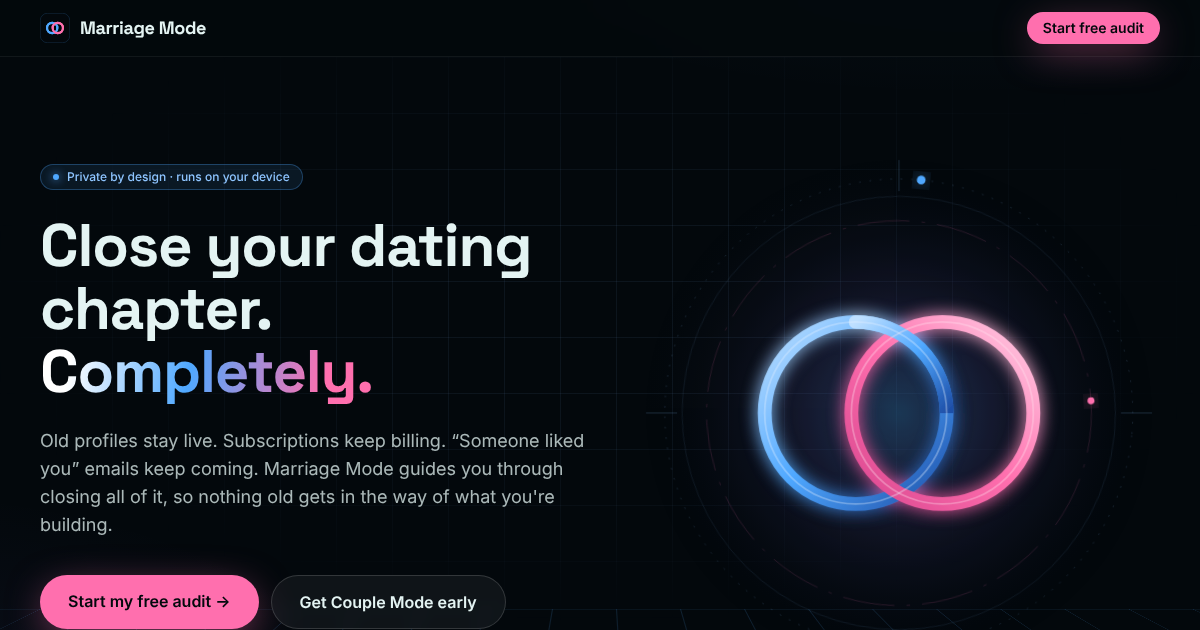
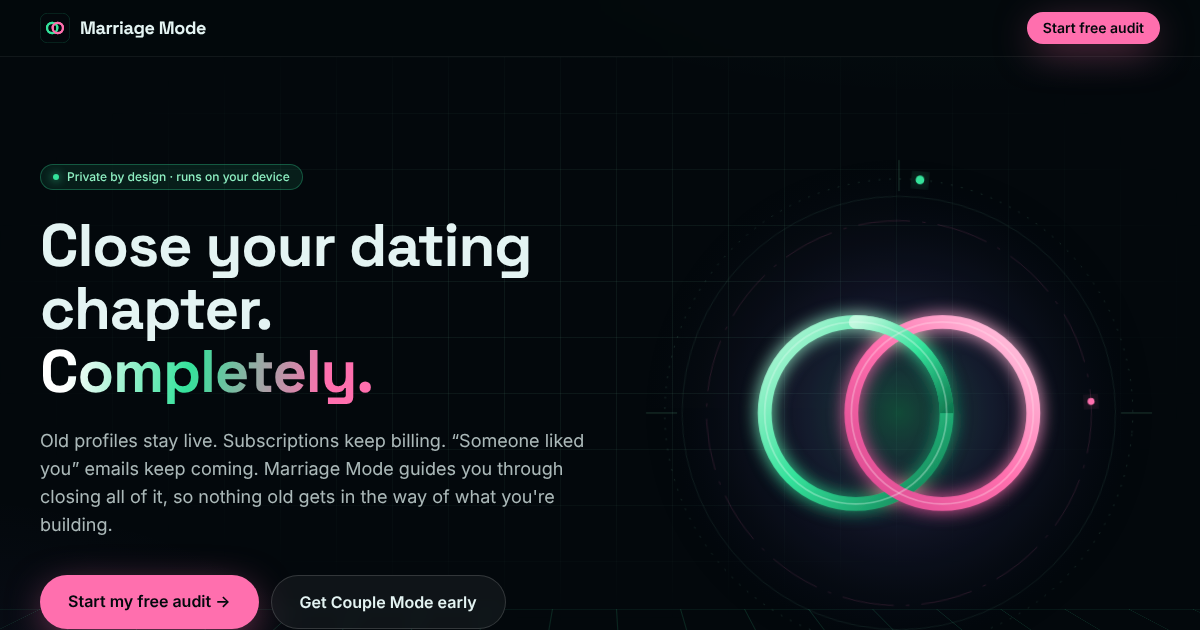
Green and pink couple colors
Claude-Session: https://claude.ai/code/session_01PMWj3aTo82XBh1qqnGkntn

diff --git a/app/src/components/Halo.tsx b/app/src/components/Halo.tsx
@@ -2,15 +2,15 @@
 // Pure SVG: sharp at any size, ~2 KB, no image requests.
 export default function Halo({ className = '' }: { className?: string }) {
   return (
-    <svg viewBox="0 0 600 600" className={className} role="img" aria-label="Two interlocking glowing rings, one blue and one pink">
+    <svg viewBox="0 0 600 600" className={className} role="img" aria-label="Two interlocking glowing rings, one green and one pink">
       <defs>
         <radialGradient id="h-core" cx="50%" cy="50%" r="50%">
-          <stop offset="0" stopColor="#4FA8FF" stopOpacity=".35" />
+          <stop offset="0" stopColor="#34E29B" stopOpacity=".35" />
           <stop offset=".45" stopColor="#8B7CFF" stopOpacity=".12" />
           <stop offset="1" stopColor="#03080C" stopOpacity="0" />
         </radialGradient>
         <linearGradient id="h-a" x1="0" y1="0" x2="1" y2="1">
-          <stop offset="0" stopColor="#BFE0FF" /><stop offset=".5" stopColor="#4FA8FF" /><stop offset="1" stopColor="#1E4FA8" />
+          <stop offset="0" stopColor="#C2F9DF" /><stop offset=".5" stopColor="#34E29B" /><stop offset="1" stopColor="#0F7A50" />
         </linearGradient>
         <linearGradient id="h-b" x1="1" y1="0" x2="0" y2="1">
           <stop offset="0" stopColor="#FFD1E6" /><stop offset=".5" stopColor="#FF6FAE" /><stop offset="1" stopColor="#D9468F" />
@@ -25,16 +25,16 @@ export default function Halo({ className = '' }: { className?: string }) {
       <circle cx="300" cy="300" r="300" fill="url(#h-core)" className="pulse-soft" />
 
       {/* HUD orbits */}
-      <g className="spin-slow" fill="none" stroke="#8EC5FF">
+      <g className="spin-slow" fill="none" stroke="#8EF0C2">
         <circle cx="300" cy="300" r="270" strokeOpacity=".18" strokeDasharray="2 10" />
         <circle cx="300" cy="300" r="250" strokeOpacity=".10" />
-        <circle cx="300" cy="30" r="5" fill="#4FA8FF" stroke="none" filter="url(#h-glow)" />
+        <circle cx="300" cy="30" r="5" fill="#34E29B" stroke="none" filter="url(#h-glow)" />
       </g>
       <g className="spin-rev" fill="none" stroke="#FF6FAE">
         <circle cx="300" cy="300" r="222" strokeOpacity=".16" strokeDasharray="60 14 4 14" />
         <circle cx="522" cy="300" r="4" fill="#FF6FAE" stroke="none" filter="url(#h-glow)" />
       </g>
-      <g stroke="#8EC5FF" strokeOpacity=".25">
+      <g stroke="#8EF0C2" strokeOpacity=".25">
         <line x1="300" y1="8" x2="300" y2="44" /><line x1="300" y1="556" x2="300" y2="592" />
         <line x1="8" y1="300" x2="44" y2="300" /><line x1="556" y1="300" x2="592" y2="300" />
       </g>
@@ -46,7 +46,7 @@ export default function Halo({ className = '' }: { className?: string }) {
         <path d="M 250 195 A 105 105 0 0 1 355 300" stroke="url(#h-a)" clipPath="url(#h-top)" />
       </g>
       <g fill="none" strokeWidth="2" strokeOpacity=".9">
-        <circle cx="250" cy="300" r="105" stroke="#E6F1FF" strokeOpacity=".35" />
+        <circle cx="250" cy="300" r="105" stroke="#E6FFF3" strokeOpacity=".35" />
         <circle cx="350" cy="300" r="105" stroke="#FFE6F2" strokeOpacity=".35" />
       </g>
     </svg>
@@ -55,7 +55,7 @@ export default function Halo({ className = '' }: { className?: string }) {
 
 // Small halo used as an icon in cards
 export function HaloIcon({ tone = 'lagoon' }: { tone?: 'lagoon' | 'mango' | 'violet' }) {
-  const c = tone === 'mango' ? '#FF6FAE' : tone === 'violet' ? '#8B7CFF' : '#4FA8FF';
+  const c = tone === 'mango' ? '#FF6FAE' : tone === 'violet' ? '#8B7CFF' : '#34E29B';
   return (
     <svg viewBox="0 0 48 48" width="44" height="44" aria-hidden="true">
       <circle cx="24" cy="24" r="22" fill={c} fillOpacity=".08" />

diff --git a/app/src/app/globals.css b/app/src/app/globals.css
@@ -1,13 +1,13 @@
 @import "tailwindcss";
 
-/* Dark, futurist theme. Couple colors: lagoon = blue, mango = pink (token names kept). */
+/* Dark, futurist theme. Couple colors: lagoon = green, mango = pink (token names kept). */
 @theme {
   --color-night: #03080C;      /* page background */
   --color-deep: #071820;       /* raised surface */
   --color-ink: #E4F4F3;        /* main text (light on dark) */
-  --color-ocean: #1E4FA8;
-  --color-lagoon: #4FA8FF;      /* blue */
-  --color-teal: #8EC5FF;       /* links */
+  --color-ocean: #0F7A50;
+  --color-lagoon: #34E29B;      /* green */
+  --color-teal: #8EF0C2;       /* links */
   --color-mango: #FF6FAE;       /* pink */
   --color-coral: #FF7A66;
   --color-palm: #34D399;
@@ -21,28 +21,28 @@
 html { background: var(--color-night); }
 body {
   background:
-    radial-gradient(1200px 600px at 80% -10%, rgb(79 168 255 / .10), transparent 60%),
+    radial-gradient(1200px 600px at 80% -10%, rgb(52 226 155 / .10), transparent 60%),
     radial-gradient(900px 500px at -10% 30%, rgb(139 124 255 / .08), transparent 60%),
     var(--color-night);
   color: var(--color-ink);
 }
 h1, h2, h3, .font-display { font-family: var(--font-display); letter-spacing: -0.02em; }
 :focus-visible { outline: 2px solid var(--color-mango); outline-offset: 3px; }
-::selection { background: rgb(79 168 255 / .35); }
+::selection { background: rgb(52 226 155 / .35); }
 
 /* Grid backdrop, fading out toward the edges */
 .grid-bg {
   background-image:
-    linear-gradient(rgb(142 197 255 / .07) 1px, transparent 1px),
-    linear-gradient(90deg, rgb(142 197 255 / .07) 1px, transparent 1px);
+    linear-gradient(rgb(142 240 194 / .07) 1px, transparent 1px),
+    linear-gradient(90deg, rgb(142 240 194 / .07) 1px, transparent 1px);
   background-size: 56px 56px;
   mask-image: radial-gradient(ellipse 70% 60% at 50% 35%, #000 25%, transparent 75%);
 }
 /* Perspective "floor" grid under the hero */
 .grid-floor {
   background-image:
-    linear-gradient(rgb(79 168 255 / .22) 1px, transparent 1px),
-    linear-gradient(90deg, rgb(79 168 255 / .22) 1px, transparent 1px);
+    linear-gradient(rgb(52 226 155 / .22) 1px, transparent 1px),
+    linear-gradient(90deg, rgb(52 226 155 / .22) 1px, transparent 1px);
   background-size: 64px 64px;
   transform: perspective(520px) rotateX(62deg);
   transform-origin: 50% 0;
@@ -72,7 +72,7 @@ h1, h2, h3, .font-display { font-family: var(--font-display); letter-spacing: -0
   background: linear-gradient(100deg, #fff 10%, var(--color-lagoon) 45%, var(--color-mango) 85%);
   -webkit-background-clip: text; background-clip: text; color: transparent;
 }
-.glow-lagoon { box-shadow: 0 0 0 1px rgb(79 168 255 / .4), 0 10px 40px -10px rgb(79 168 255 / .7); }
+.glow-lagoon { box-shadow: 0 0 0 1px rgb(52 226 155 / .4), 0 10px 40px -10px rgb(52 226 155 / .7); }
 .glow-mango  { box-shadow: 0 10px 40px -8px rgb(255 111 174 / .65); }
 
 .spin-slow { animation: spin 60s linear infinite; transform-origin: center; transform-box: fill-box; }

diff --git a/app/src/app/audit/AuditApp.tsx b/app/src/app/audit/AuditApp.tsx
@@ -18,7 +18,7 @@ function Ring({ value, label }: { value: number; label: string }) {
     <div className="flex items-center gap-3">
       <svg width="84" height="84" viewBox="0 0 84 84" role="img" aria-label={`${label}: ${value} out of 100`}>
         <circle cx="42" cy="42" r={r} fill="none" stroke="currentColor" strokeOpacity=".12" strokeWidth="9" />
-        <circle cx="42" cy="42" r={r} fill="none" stroke={value === 100 ? '#34D399' : '#4FA8FF'} style={{ transition: 'stroke-dashoffset .4s', filter: 'drop-shadow(0 0 6px #4FA8FF)' }} strokeWidth="9" strokeLinecap="round"
+        <circle cx="42" cy="42" r={r} fill="none" stroke={value === 100 ? '#34D399' : '#34E29B'} style={{ transition: 'stroke-dashoffset .4s', filter: 'drop-shadow(0 0 6px #34E29B)' }} strokeWidth="9" strokeLinecap="round"
           strokeDasharray={c} strokeDashoffset={c * (1 - value / 100)} transform="rotate(-90 42 42)" />
         <text x="42" y="48" textAnchor="middle" fontSize="20" fontWeight="800" fill="currentColor">{value}</text>
       </svg>
@@ -98,7 +98,7 @@ export default function AuditApp() {
                     const on = state.platformIds.includes(p.id);
                     return (
                       <button key={p.id} onClick={() => toggle(p.id)} aria-pressed={on}
-                        className={`rounded-full px-4 py-2 text-sm font-medium ring-1 ${on ? 'bg-lagoon/15 ring-lagoon/70 text-ink shadow-[0_0_18px_-6px_#4FA8FF]' : 'bg-white/5 ring-white/10 text-ink/80 hover:ring-lagoon/40'}`}>
+                        className={`rounded-full px-4 py-2 text-sm font-medium ring-1 ${on ? 'bg-lagoon/15 ring-lagoon/70 text-ink shadow-[0_0_18px_-6px_#34E29B]' : 'bg-white/5 ring-white/10 text-ink/80 hover:ring-lagoon/40'}`}>
                         {on ? '✓ ' : ''}{p.name}
                       </button>
                     );
@@ -136,7 +136,7 @@ export default function AuditApp() {
                   {g.items.map((st) => (
                     <li key={st.id}>
                       <label className="flex cursor-pointer gap-3">
-                        <input type="checkbox" checked={!!state.done[st.id]} onChange={() => tick(st.id)} className="mt-1 size-5 accent-[#4FA8FF]" />
+                        <input type="checkbox" checked={!!state.done[st.id]} onChange={() => tick(st.id)} className="mt-1 size-5 accent-[#34E29B]" />
                         <span>
                           <span className={`font-medium ${state.done[st.id] ? 'text-ink/50 line-through' : ''}`}>{st.label}</span>
                           {st.detail && <span className="block text-sm text-ink/70">{st.detail}</span>}

diff --git a/app/src/app/page.tsx b/app/src/app/page.tsx
@@ -28,7 +28,7 @@ export default function Home() {
         <div className="mx-auto grid max-w-6xl items-center gap-6 px-4 pb-24 pt-14 md:grid-cols-[1.1fr_1fr] md:pt-24">
           <div>
             <span className="inline-flex items-center gap-2 rounded-full border border-lagoon/30 bg-lagoon/10 px-3 py-1 text-xs font-medium text-teal">
-              <span className="size-1.5 rounded-full bg-lagoon shadow-[0_0_10px_#4FA8FF]" /> Private by design · runs on your device
+              <span className="size-1.5 rounded-full bg-lagoon shadow-[0_0_10px_#34E29B]" /> Private by design · runs on your device
             </span>
             <h1 className="mt-6 text-[2.6rem] font-bold leading-[1.05] sm:text-6xl">
               Close your dating chapter.<br /><span className="text-glow">Completely.</span>
@@ -82,7 +82,7 @@ export default function Home() {
             <div className="mt-5 flex justify-center" aria-hidden="true">
               <svg viewBox="0 0 120 120" width="140" height="140">
                 <circle cx="60" cy="60" r="48" fill="none" stroke="#fff" strokeOpacity=".08" strokeWidth="10" />
-                <circle cx="60" cy="60" r="48" fill="none" stroke="#4FA8FF" strokeWidth="10" strokeLinecap="round" strokeDasharray="301.6" strokeDashoffset="54" transform="rotate(-90 60 60)" style={{ filter: 'drop-shadow(0 0 8px #4FA8FF)' }} />
+                <circle cx="60" cy="60" r="48" fill="none" stroke="#34E29B" strokeWidth="10" strokeLinecap="round" strokeDasharray="301.6" strokeDashoffset="54" transform="rotate(-90 60 60)" style={{ filter: 'drop-shadow(0 0 8px #34E29B)' }} />
                 <text x="60" y="68" textAnchor="middle" fill="#E4F4F3" fontSize="26" fontWeight="700" fontFamily="Space Grotesk Variable">82</text>
               </svg>
             </div>

diff --git a/docs/DESIGN-SYSTEM.md b/docs/DESIGN-SYSTEM.md
@@ -3,9 +3,9 @@
 | Element | Rule |
 |---|---|
 | Theme | Dark only. Background `night` #03080C, surfaces `deep` #071820, text `ink` #E4F4F3 |
-| Glow colors | Blue and pink couple colors (founder, 2026-11-15). Blue #4FA8FF (primary; token `lagoon`), pink #FF6FAE (calls to action; token `mango`), violet #8B7CFF where they blend. Links #8EC5FF |
+| Glow colors | Green and pink couple colors (founder, 2026-11-15). Green #34E29B (primary; token `lagoon`), pink #FF6FAE (calls to action; token `mango`), violet #8B7CFF where they blend. Links #8EF0C2 |
 | Type | Space Grotesk (headings), Inter (body), mono for small uppercase labels. Self-hosted through @fontsource, no outside font requests |
-| Halo | `components/Halo.tsx`: two interlocking glowing rings, one blue and one pink (the couple) inside rotating HUD orbits. `HaloIcon` for cards. Pure SVG |
+| Halo | `components/Halo.tsx`: two interlocking glowing rings, one green and one pink (the couple) inside rotating HUD orbits. `HaloIcon` for cards. Pure SVG |
 | Grids | `.grid-bg` fading square grid behind sections; `.grid-floor` perspective floor under the hero; bento card grid for features |
 | Surfaces | `.glass` translucent panels with blur; `.halo-border` animated conic-gradient edge for the key panel |
 | Motion | Slow orbit spin, soft pulse, rotating border. All switched off under "reduce motion" |
